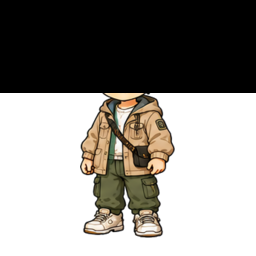
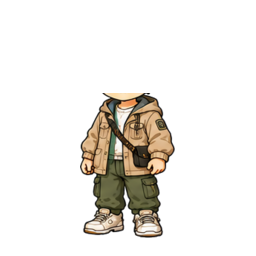
fix: join outfit layers and enlarge companion

diff --git a/avatar-renderer.js b/avatar-renderer.js
@@ -58,9 +58,9 @@ window.StudyVillageAvatar=(()=>{
     'outfit-silver-knight':{src:`${RPG}production/outfits/silver-knight.png`,onePiece:true,alt:'은빛 수호 기사 한벌 의상'},'outfit-star-mage-production':{src:`${RPG}production/outfits/star-mage.png`,onePiece:true,alt:'별자리 마법사 한벌 의상'},'outfit-school-scientist':{src:`${RPG}production/outfits/school-scientist.png`,onePiece:true,alt:'푸른빛 과학자 한벌 의상'},'outfit-forest-archer-production':{src:`${RPG}production/outfits/forest-archer.png`,onePiece:true,alt:'초록 숲 궁수 한벌 의상'},'outfit-pirate-captain-production':{src:`${RPG}production/outfits/pirate-captain.png`,onePiece:true,alt:'붉은 해적 선장 한벌 의상'},'outfit-moon-priest-production':{src:`${RPG}production/outfits/moon-priest.png`,onePiece:true,alt:'달빛 사제 한벌 의상'},
     'outfit-starlight-dress-production':{src:`${RPG}production/outfits/starlight-dress.png`,onePiece:true,alt:'별빛 드레스 한벌 의상'},'outfit-flower-fairy-production':{src:`${RPG}production/outfits/flower-fairy-dress.png`,onePiece:true,alt:'꽃요정 원피스 한벌 의상'},'outfit-ribbon-magical-girl-production':{src:`${RPG}production/outfits/ribbon-magical-girl.png`,onePiece:true,alt:'리본 마법소녀 한벌 의상'},
     'pet-maltese-production':{src:`${RPG}production/pets/maltese.png?v=20260902large2`,alt:'하얀 말티즈'},'pet-toy-poodle-production':{src:`${RPG}production/pets/toy-poodle.png?v=20260902large2`,alt:'살구 토이푸들'},'pet-corgi-production':{src:`${RPG}production/pets/corgi.png?v=20260902large2`,alt:'통통 웰시코기'},'pet-cheese-cat-production':{src:`${RPG}production/pets/cheese-cat.png?v=20260902large2`,alt:'치즈 줄무늬 고양이'},'pet-lop-rabbit-production':{src:`${RPG}production/pets/lop-rabbit.png?v=20260902large2`,alt:'크림 롭이어 토끼'},'pet-baby-dragon-production':{src:`${RPG}production/pets/baby-dragon.png?v=20260902large2`,alt:'사파이어 꼬마 용'},
-    'outfit-camp-explorer-v2':{src:`${RPG}v2/outfits/camp-explorer-v1.png?v=20260902art2`,onePiece:true,alt:'캠핑 탐험가 한벌 의상'},
-    'effect-starlight-v2':{svg:frame('<g fill="#ffd95a" stroke="#b87a24" stroke-width="1"><path d="M31 27l3 7 8 1-6 5 2 8-7-4-7 4 2-8-6-5 8-1z"/><path d="M76 53l2 5 6 1-5 4 2 6-5-3-5 3 2-6-5-4 6-1z"/><circle cx="82" cy="28" r="3"/><circle cx="20" cy="65" r="2.5"/></g>') ,alt:'포근한 별빛 효과'},
-    'pet-cream-pup-v2':{src:`${RPG}v2/pets/cream-pup-v1.png?v=20260902art2`,alt:'크림 강아지'}
+    'outfit-camp-explorer-v2':{src:`${RPG}v2/outfits/camp-explorer-v1.png?v=20260902art3`,onePiece:true,alt:'캠핑 탐험가 한벌 의상'},
+    'effect-starlight-v2':{svg:frame('<g fill="#ffd95a" stroke="#b87a24" stroke-width="1"><path d="M8 34l2 5 6 1-5 4 2 6-5-3-5 3 2-6-5-4 6-1z"/><path d="M88 58l2 5 6 1-5 4 2 6-5-3-5 3 2-6-5-4 6-1z"/><path d="M11 100l1.5 4 4.5.5-3.5 3 1 4.5-3.5-2.5L7.5 112l1-4.5-3.5-3 4.5-.5z"/><circle cx="88" cy="105" r="2.5"/><circle cx="9" cy="72" r="2"/></g>'),alt:'포근한 별빛 효과'},
+    'pet-cream-pup-v2':{src:`${RPG}v2/pets/cream-pup-v1.png?v=20260902art3`,alt:'크림 강아지'}
   };
   function paint(element,spec){if(!element)return;element.replaceChildren();element.classList.toggle('image-asset',!!spec?.src);element.classList.toggle('svg-asset',!!spec?.svg);if(spec?.svg)element.innerHTML=spec.svg;else if(spec?.src){const img=document.createElement('img');img.src=spec.src;img.alt=spec.alt||'';img.draggable=false;element.appendChild(img)}else element.textContent=spec?.emoji||''}
   function base(id='student-default'){return BASES[id]||BASES['student-default']}

diff --git a/avatar-assets.css b/avatar-assets.css
@@ -19,4 +19,4 @@
 .shop-preview-composite{display:block!important;width:100%!important;height:100%!important;object-fit:contain!important;transform:none!important}
 
 /* One shared 256x256 head mask. Authored outfit necklines begin at Y=89. */
-.sv-avatar-one-piece>.player-icon,.sv-avatar-one-piece>.preview-base,.sv-avatar-one-piece>.sv-rank-base,.sv-avatar-one-piece>.sv-profile-base,.sv-avatar-one-piece>.sv-exp2-base,.sv-avatar-one-piece>.shop-preview-base,.sv-avatar-one-piece>.admin-avatar-base{clip-path:inset(0 0 65.3% 0)!important;-webkit-clip-path:inset(0 0 65.3% 0)!important;overflow:hidden!important}
+.sv-avatar-one-piece>.player-icon,.sv-avatar-one-piece>.preview-base,.sv-avatar-one-piece>.sv-rank-base,.sv-avatar-one-piece>.sv-profile-base,.sv-avatar-one-piece>.sv-exp2-base,.sv-avatar-one-piece>.shop-preview-base,.sv-avatar-one-piece>.admin-avatar-base{clip-path:inset(0 0 63.7% 0)!important;-webkit-clip-path:inset(0 0 63.7% 0)!important;overflow:hidden!important}

diff --git a/avatar-basic-pack-contract-selftest.js b/avatar-basic-pack-contract-selftest.js
@@ -14,6 +14,6 @@ assert.ok(ranking.includes("['outfit','effect','bottom','shoes','hat','glasses',
 assert.ok(server.includes('equipment:rankingEquipment(row)'),'ranking API must return allowlisted equipment');
 assert.ok(admin.includes("for(const slot of ['effect','outfit','pet'])"),'teacher student table must paint canonical avatar layers');
 assert.ok(adminShop.includes('admin-shop-product-preview'),'teacher shop must render graphical product previews');
-assert.ok(adminHtml.includes('avatar-renderer.js?v=20260902art2'),'teacher mode must load the canonical renderer');
+assert.ok(adminHtml.includes('avatar-renderer.js?v=20260902art3'),'teacher mode must load the canonical renderer');
 for(const token of ["NEW_ART_RESET_KEY='avatar:new-art-reset:v2'","stars=0","equipment_json='{}'","owned_items_json='[]'","DELETE FROM star_ledger"])assert.ok(itemShop.includes(token),`one-time tester reset missing: ${token}`);
 console.log('new art one-set integration contract passed');

diff --git a/admin.html b/admin.html
@@ -6,7 +6,7 @@
     <title>Studyvillage 교사용</title>
     <link rel="stylesheet" href="admin.css?v=20260827v2" />
     <link rel="stylesheet" href="admin-checkpoints.css" />
-    <link rel="stylesheet" href="avatar-assets.css?v=20260902art2" />
+    <link rel="stylesheet" href="avatar-assets.css?v=20260902art3" />
   </head>
   <body>
     <main class="admin-wrap">
@@ -204,7 +204,7 @@
     <script src="admin-network-guard.js?v=20260825r8"></script>
     <script src="admin-restore-guard.js?v=v1-restore2"></script>
     <script src="admin-restore-preflight.js"></script>
-    <script src="avatar-renderer.js?v=20260902art2"></script>
+    <script src="avatar-renderer.js?v=20260902art3"></script>
     <script src="admin.js?v=20260825r8"></script>
     <script src="admin-student-edit.js?v=20260825r8"></script>
     <script src="admin-checkpoints.js"></script>

diff --git a/index.html b/index.html
@@ -5,7 +5,7 @@
     <meta name="viewport" content="width=device-width,initial-scale=1" />
     <title>우리 학습마을</title>
     <link rel="stylesheet" href="style.css?v=20260827r11" />
-    <link rel="stylesheet" href="avatar-assets.css?v=20260902art2" />
+    <link rel="stylesheet" href="avatar-assets.css?v=20260902art3" />
     <link rel="stylesheet" href="building-interiors.css?v=20260902r1" />
     <link rel="stylesheet" href="library-game.css?v=20260828v4" />
     <link rel="stylesheet" href="activity-records.css" />
